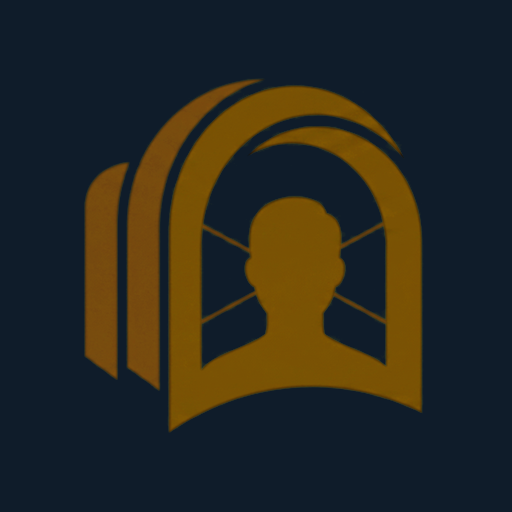
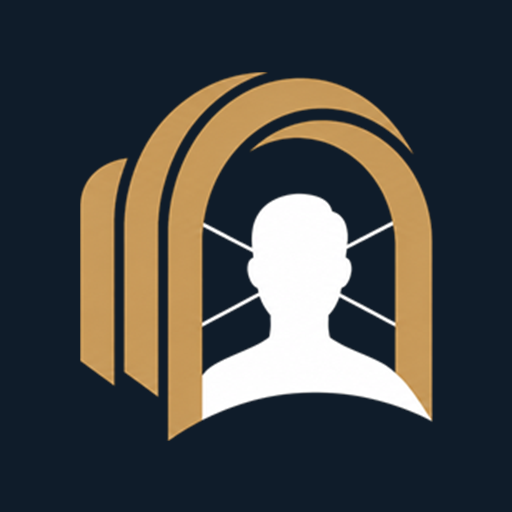
Marca oficial para fundo escuro

Changed region(s): [[0.1562, 0.125, 0.8438, 0.875]]

diff --git a/equipe.html b/equipe.html
@@ -157,7 +157,7 @@
      ============================================================ -->
 <header class="app-header dark-surface">
   <button type="button" class="brand" data-aba="clientes" aria-label="Painel da equipe · ir para clientes">
-    <img class="brand__logo" src="assets/totali-simbolo.png" alt="Totali Soluções Contábeis" width="200" height="209">
+    <img class="brand__logo" src="assets/totali-simbolo.png" alt="Totali Soluções Contábeis" width="220" height="230">
     <span class="brand__divider" aria-hidden="true"></span>
     <span class="brand__text">
       <span class="brand__title">Painel da equipe</span>
@@ -188,7 +188,7 @@
     <section class="section" id="secLogin" hidden>
       <div class="card card--pad" style="max-width:420px;margin:40px auto">
         <img src="assets/totali-portal-branca.png" alt="Totali · Portal do Cliente"
-             width="660" height="236" class="marca-porta">
+             width="660" height="235" class="marca-porta">
         <div class="eyebrow">Uso interno</div>
         <h1 class="section__title" style="font-size:20px;margin:6px 0 6px">Entrar no painel</h1>
         <p class="section__desc" style="margin-bottom:18px">Acesso restrito à equipe da Totali.</p>

diff --git a/index.html b/index.html
@@ -225,7 +225,7 @@
      ============================================================ -->
 <header class="app-header dark-surface">
   <button type="button" class="brand" data-nav="inicio" aria-label="Totali · voltar para o início">
-    <img class="brand__logo" src="assets/totali-simbolo.png" alt="Totali Soluções Contábeis" width="200" height="209">
+    <img class="brand__logo" src="assets/totali-simbolo.png" alt="Totali Soluções Contábeis" width="220" height="230">
     <span class="brand__divider" aria-hidden="true"></span>
     <span class="brand__text">
       <span class="brand__title" id="brandTitulo">Portal do Cliente</span>

diff --git a/js/app.js b/js/app.js
@@ -150,7 +150,7 @@
         /* Porta de entrada: aqui cabe a marca inteira, e é onde
            ela mais faz falta — é a primeira tela do sistema. */
         '<img src="assets/totali-portal-branca.png" alt="Totali · Portal do Cliente" ' +
-          'width="660" height="236" class="marca-porta">' +
+          'width="660" height="235" class="marca-porta">' +
         '<div class="eyebrow">' + (cadastro ? "Bem-vindo" : "Portal do Cliente") + '</div>' +
         '<h1 class="section__title" style="font-size:21px;margin:8px 0 6px">' +
           (cadastro ? "Crie o seu acesso" : "Entrar") + '</h1>' +

diff --git a/sw.js b/sw.js
@@ -16,7 +16,7 @@
    Ao alterar qualquer arquivo do app, suba o número da versão —
    é o que faz o navegador do cliente buscar o conteúdo novo.
    ============================================================ */
-var VERSAO = "v24";
+var VERSAO = "v25";
 var CACHE = "totali-onboarding-" + VERSAO;
 
 var SHELL = [
